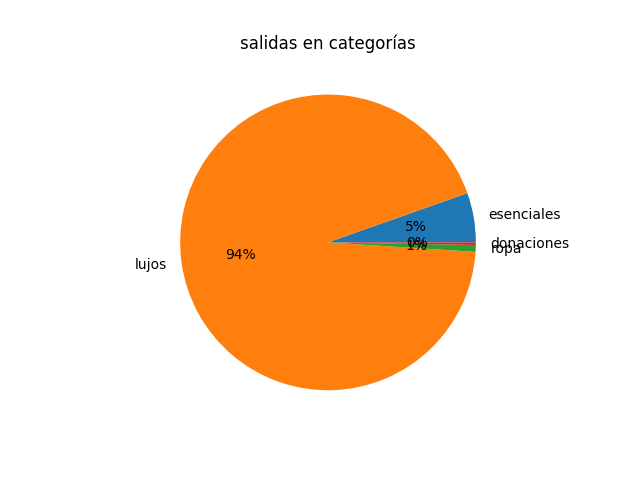
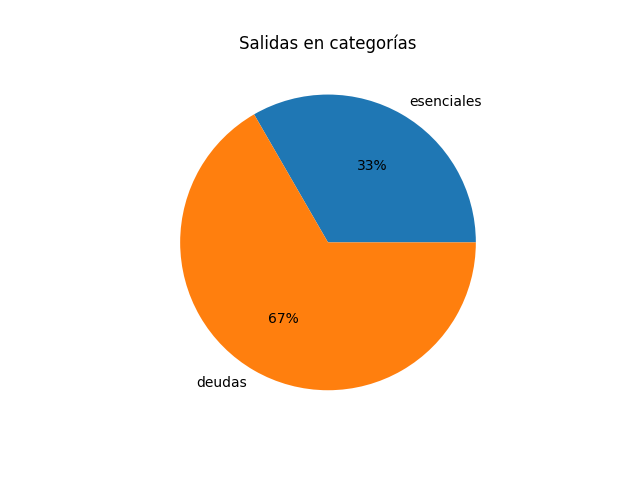
creación de categorías por defecto, elimicación de formulario inciial, correción de títulos y ejes de los gráficos

diff --git a/SMARTCASHPROJECT/wallet/charts.py b/SMARTCASHPROJECT/wallet/charts.py
@@ -31,7 +31,7 @@ def pie_chart_movements_direction(movements, direction):
     values, labels = categories.values(), categories.keys()
     plt.figure()
     plt.pie(values, labels=labels, autopct='%1.0f%%')
-    plt.title(f'{direction}s en categorías')
+    plt.title(f'{direction.capitalize()}s en categorías')
     plt.savefig(f'static/images/pie_chart_{direction}.png')
 
 
@@ -46,8 +46,8 @@ def line_chart_date(movements):
     values, labels = dates.values(), [x.strftime("%m/%d/%Y") for x in dates.keys()]
     plt.plot(labels, values, figure=figure)
     plt.title('Gastos en el tiempo')
-    plt.xlabel('fecha', figure=figure)
-    plt.ylabel('dinero gastado', figure=figure)
+    plt.xlabel('Fecha', figure=figure)
+    plt.ylabel('Dinero gastado', figure=figure)
     plt.savefig('static/images/line_chart.png')
 
 
@@ -61,7 +61,7 @@ def line_chart_date_direction(movements, direction):
     figure = plt.figure()
     values, labels = dates.values(), [x.strftime("%m/%d/%Y") for x in dates.keys()]
     plt.plot(labels, values, figure=figure, color='blue' if direction == 'entrada' else 'red')
-    plt.title(f'{direction}s en el tiempo')
+    plt.title(f'{direction.capitalize()}s en el tiempo')
     plt.xlabel('fecha', figure=figure)
-    plt.ylabel(f'{direction}', figure=figure)
+    plt.ylabel(f'{direction.capitalize()}', figure=figure)
     plt.savefig(f'static/images/line_chart_{direction}.png')

diff --git a/SMARTCASHPROJECT/wallet/connection.py b/SMARTCASHPROJECT/wallet/connection.py
@@ -1,8 +1,6 @@
 import mysql.connector
 from datetime import date
 
-
-
 connection = mysql.connector.connect(user='root', password='Dragonball2004*', host='localhost',
                                      database='smartcash', port='3306')
 
@@ -152,7 +150,21 @@ def search_user_categories():
     cur.execute(sql)
     categories = cur.fetchall()
     cur.close()
-    return categories
+    print('categories', categories)
+    return categories + [(-1, 'esenciales', id_user), (-1, 'lujos', id_user), (-1, 'fijos', id_user),
+                         (-1, 'deudas', id_user)]
+
+
+def create_user_details(average_income, average_life_cost, month_income, month_life_cost, month_expenses,
+                        current_savings):
+    id_user = search_user_id(current_user.username)
+    cur = connection.cursor()
+    sql = f"insert into detalle(id_usuario, promedio_ingreso, promedio_costo_vida, ingreso_mes, costo_vida_mes, " \
+          f"gastos_mes, ahorro_actual) values({id_user}, {average_income}, {average_life_cost}, {month_income}, " \
+          f"{month_life_cost}, {month_expenses}, {current_savings}) "
+    cur.execute(sql)
+    connection.commit()
+    cur.close()
 
 # cur = connection.cursor()
 # sql = f"select * from movimiento where id_usuario = 0"

diff --git a/SMARTCASHPROJECT/wallet/views.py b/SMARTCASHPROJECT/wallet/views.py
@@ -18,7 +18,7 @@ def register(request):
         if form.is_valid():
             form.save()
             connection.create_user(form.cleaned_data)
-            return redirect('dataaform')
+            return redirect('home')
     else:
         form = UserRegisterForm()
 
@@ -38,6 +38,7 @@ def data_form(request):
     month_life_expenses = request.GET.get('month_life_expenses')
     month_expenses = request.GET.get('month_expenses')
     current_savings = request.GET.get('current_savings')
+    print(average_income, life_cost_average, month_income, month_life_expenses, month_expenses, current_savings)
     return render(request, 'registration/data_form.html',
                   {'average_income': average_income, 'life_cost_average': life_cost_average,
                    'month_income': month_income, 'month_life_expenses': month_life_expenses,
